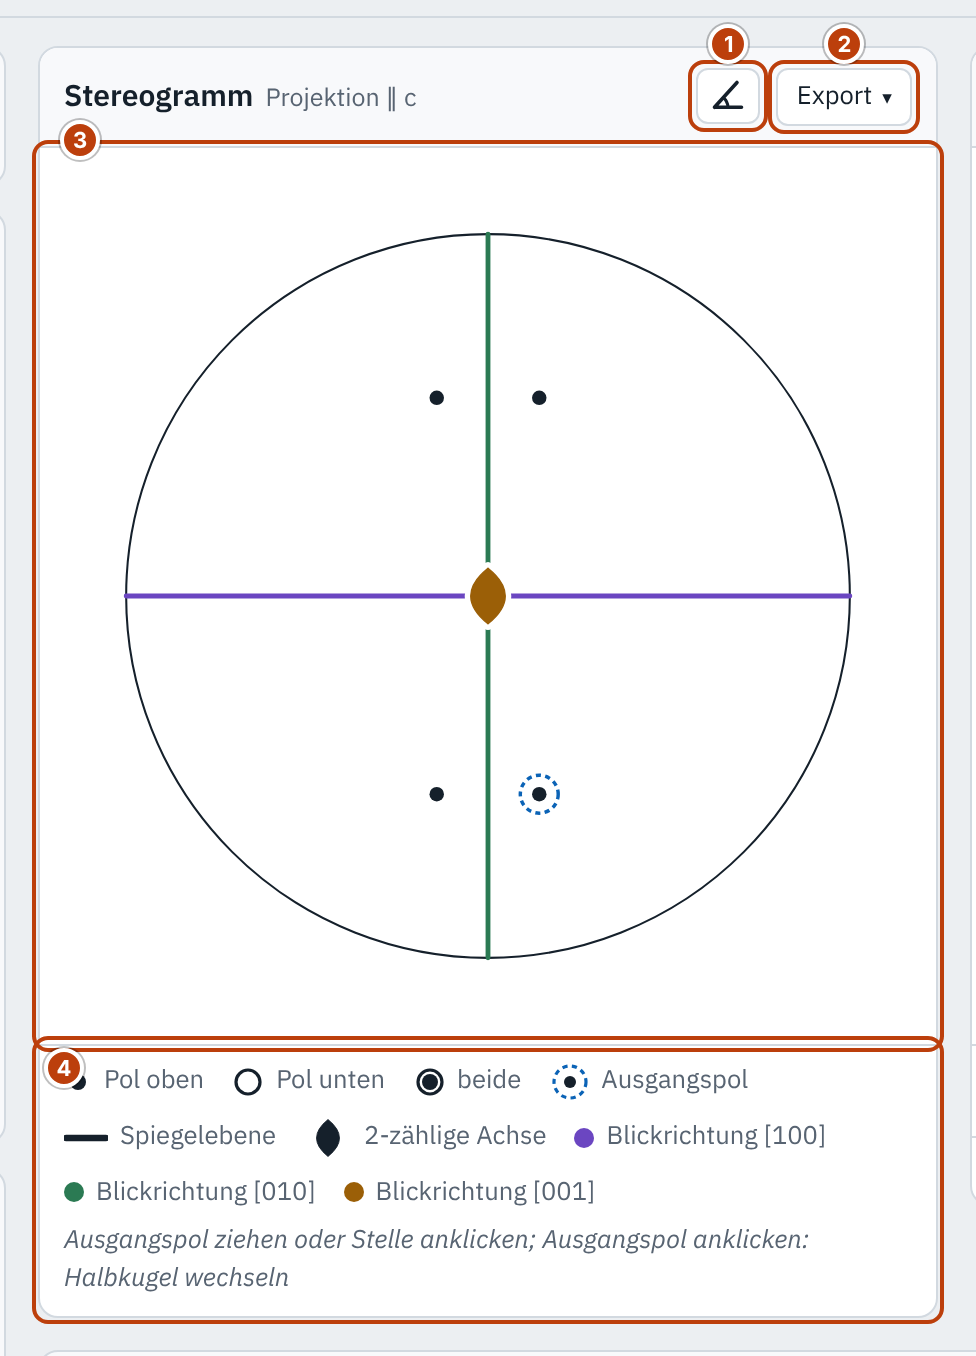
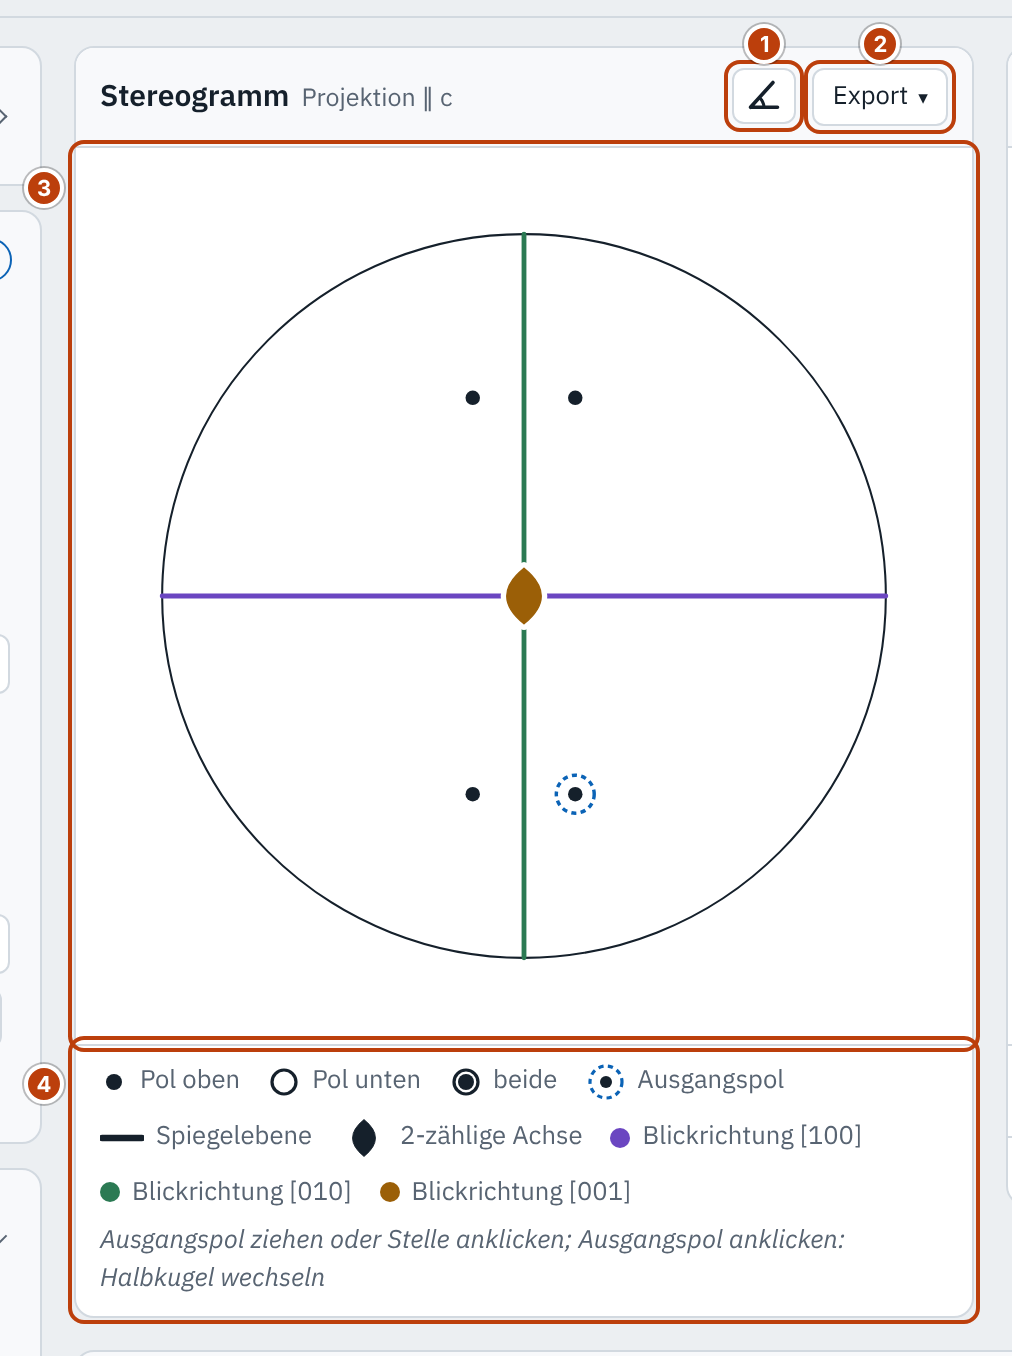
Hilfebilder neu (Platzierung der Nummern), gemeinsame Grundlage vom Branch hilfe-ausbau
Claude-Session: https://claude.ai/code/session_01L8SY95hsTWHeusDyUFRMq1

diff --git a/lib/common/js/hilfe-seite.js b/lib/common/js/hilfe-seite.js
@@ -11,7 +11,7 @@
 import { erzeugt, ohneHTML, nachKapitel, kapitelTitel } from './ablauf.js';
 import { UEBERBLICK, KONZEPTE, TECHNIK } from './hilfe-gemeinsam.js';
 
-/** @import { Ablauf, Experiment, Schritt } from './ablauf.js' */
+/** @import { Ablauf, BildHandlung, Experiment, Schritt } from './ablauf.js' */
 /** @import { Kapitel } from './quiz-core.js' */
 
 /**
@@ -53,9 +53,11 @@ import { UEBERBLICK, KONZEPTE, TECHNIK } from './hilfe-gemeinsam.js';
  *   skript?: string, bilder?: string, kapitel?: readonly Kapitel[] }} HilfeDaten
  */
 /**
- * Ein Bild der Hilfeseite: Dateiname (ohne Ordner), Link-Adresse des Zustands, Selektoren der markierten Elemente
- * (nummeriert, wenn `nummern`, sonst umrahmt), Ausschnitt (Selektor) und Herkunft für Meldungen.
- * @typedef {{ datei: string, adresse: string, zeige: string[], nummern: boolean, ausschnitt?: string, quelle: string }} HilfeBild
+ * Ein Bild der Hilfeseite: Dateiname (ohne Ordner), Link-Adresse des Zustands, Bedienhandlungen davor (`vorher` des
+ * Schritts: Klick auf einen Selektor oder Ziehen über Punkte in Bruchteilen seiner Breite und Höhe), Selektoren der
+ * markierten Elemente (nummeriert, wenn `nummern`, sonst umrahmt), Ausschnitt (Selektor) und Herkunft für Meldungen.
+ * @typedef {{ datei: string, adresse: string, vorher?: BildHandlung[], zeige: string[], nummern: boolean, ausschnitt?: string,
+ *   quelle: string }} HilfeBild
  */
 
 /** Name des Parameters, mit dem die Hilfeseite ein Experiment in der App startet (`index.html?experiment=<id>#…`). */
@@ -84,7 +86,7 @@ const bereichDatei = (b, m) => `${m ? imModus(m, b.id) : b.id}.png`;
  * Die Bilder der Hilfeseite. Anleitungen: je Schritt mit `zeige` eines; Zustand `bild` des Schritts, sonst die Adresse
  * des letzten Schritts davor, der eine hat (`handlung.hash` oder `bild`), sonst die des Modus. Aktionen der App
  * (`handlung.aktion`) wirken nicht auf die Bilder; ein Schritt nach einer Aktion braucht deshalb `bild`, wenn sein
- * Bild deren Wirkung zeigen soll. Bereiche: je Bereich und Modus eines, wenn er Einträge mit `zeige` hat.
+ * Bild deren Wirkung zeigen soll, und `vorher` für Zustand, der nicht in der Adresse steht (gilt nur für sein Bild). Bereiche: je Bereich und Modus eines, wenn er Einträge mit `zeige` hat.
  * @param {HilfeDaten} d
  * @returns {HilfeBild[]}
  */
@@ -102,7 +104,7 @@ export function hilfeBilder(d) {
     let adresse = modusVon(d, a.modus)?.hash ?? '';
     a.schritte.forEach((s, i) => {
       if (s.bild) adresse = s.bild;
-      if (s.zeige) bilder.push({ datei: `${a.id}-${i + 1}.png`, adresse, zeige: [s.zeige], nummern: false, quelle: `${a.id}, Schritt ${i + 1}` });
+      if (s.zeige) bilder.push({ datei: `${a.id}-${i + 1}.png`, adresse, ...(s.vorher ? { vorher: s.vorher } : {}), zeige: [s.zeige], nummern: false, quelle: `${a.id}, Schritt ${i + 1}` });
       if (s.handlung?.hash) adresse = s.handlung.hash;
     });
   }

diff --git a/lib/common/js/ablauf.js b/lib/common/js/ablauf.js
@@ -27,10 +27,12 @@ import { leererFortschritt, fortschrittAus, vermerken, vorrang } from './quiz-co
  * In einem Ablauf mit Verzweigung endet ein Schritt ohne weiter den Ablauf; sonst geht es der Reihe nach weiter.
  * skript: Anker im Skript (ohne #). Für die Hilfeseite (Erste Schritte, `hilfe-seite.js`; in der App ohne Wirkung):
  * zeige = CSS-Selektor des Bedienelements, das das Bild des Schritts markiert; bild = Link-Adresse des Zustands im
- * Bild, wo er nicht aus den Adressen der vorigen Schritte folgt (z. B. nach einer Aktion).
+ * Bild, wo er nicht aus den Adressen der vorigen Schritte folgt (z. B. nach einer Aktion); vorher = Bedienhandlungen
+ * vor dem Bild für einen Zustand, der nicht in der Adresse steht (z. B. ein gewähltes Werkzeug, ein Strich).
+ * @typedef {{ klick: string } | { ziehen: string, punkte: [number, number][] }} BildHandlung
  * @typedef {{ id?: string, frage: string, vermutung?: string[], richtig?: number, handlung?: Handlung,
  *   beobachtung?: string, erklaerung?: string, skript?: string, weiter?: Record<string, string>, zeige?: string,
- *   bild?: string }} Schritt
+ *   bild?: string, vorher?: BildHandlung[] }} Schritt
  */
 /**
  * Ablauf (Lernexperiment) mit festen Schritten. modus: Modus der App, in dem er angeboten wird. kapitel: Nummer des
